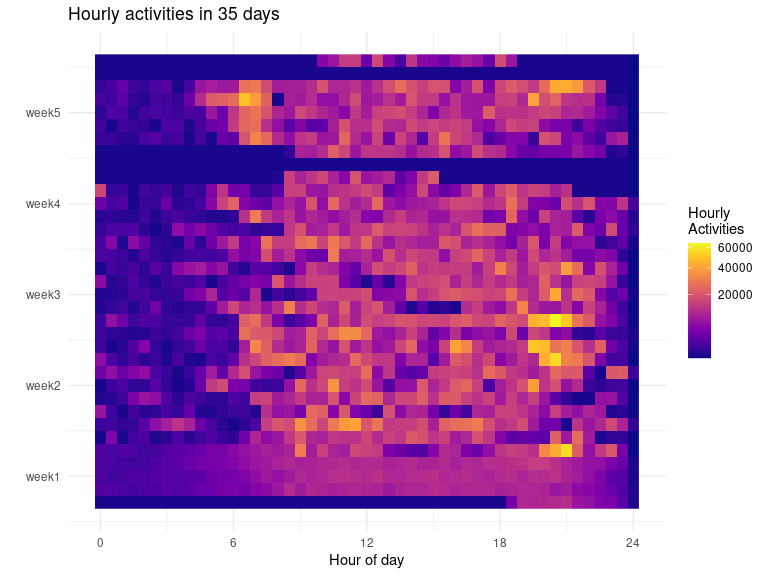
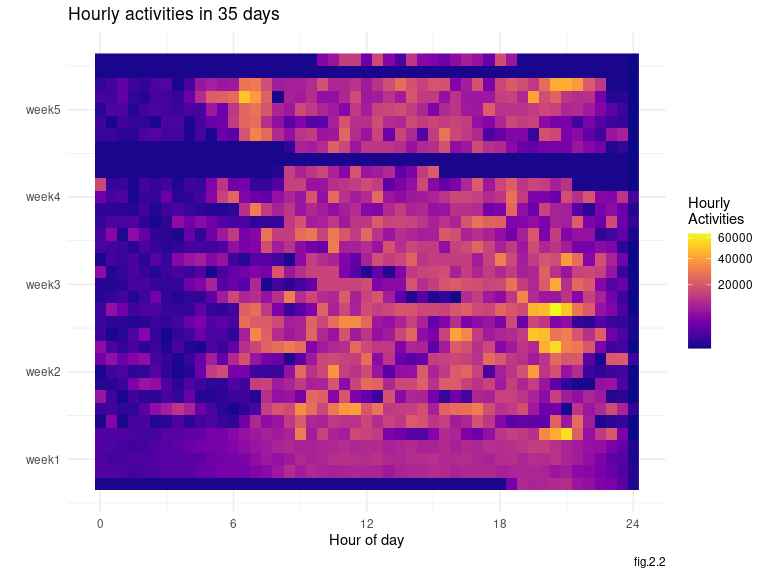
Finished description

diff --git a/P8105_hw3_zl2974.md b/P8105_hw3_zl2974.md
@@ -84,13 +84,13 @@ instacart %>%
 
     ##                              [,1]               [,2]              
     ## product_name                 "Coffee Ice Cream" "Pink Lady Apples"
-    ## avg_order_hour_of_day_week_0 "13.77419"         "13.44118"        
-    ## avg_order_hour_of_day_week_1 "14.31579"         "11.36000"        
-    ## avg_order_hour_of_day_week_2 "15.38095"         "11.70213"        
-    ## avg_order_hour_of_day_week_3 "15.31818"         "14.25000"        
-    ## avg_order_hour_of_day_week_4 "15.21739"         "11.55172"        
-    ## avg_order_hour_of_day_week_5 "12.26316"         "12.78431"        
-    ## avg_order_hour_of_day_week_6 "13.83333"         "11.93750"
+    ## avg_order_hour_of_day_week_0 "13.8"             "13.4"            
+    ## avg_order_hour_of_day_week_1 "14.3"             "11.4"            
+    ## avg_order_hour_of_day_week_2 "15.4"             "11.7"            
+    ## avg_order_hour_of_day_week_3 "15.3"             "14.2"            
+    ## avg_order_hour_of_day_week_4 "15.2"             "11.6"            
+    ## avg_order_hour_of_day_week_5 "12.3"             "12.8"            
+    ## avg_order_hour_of_day_week_6 "13.8"             "11.9"
 
 # Problem 2
 
@@ -112,24 +112,30 @@ accelerometer =
            case_when(weekday_vs_weekend ~"weekend",
                      !weekday_vs_weekend ~ "weekday") %>% 
            as.factor(),
-         week = as.character(week) %>% forcats::fct_relevel(as.character(1:5)),
-         day = forcats::fct_relevel(day,c("Monday","Tuesday","Wednesday","Thursday",
+         week = as.character(week) %>%
+           forcats::fct_relevel(as.character(1:5)),
+         day = forcats::fct_relevel(day,
+                                    c("Monday","Tuesday","Wednesday","Thursday",
                                      "Friday", "Saturday","Sunday"))
          ) %>% 
   group_by(week) %>% 
   arrange(day,.by_group=T) %>% 
   group_by(day_id) %>% 
   mutate(min_week = 1,
-         hour_day = cumsum(min_week)%/%30/2) %>% 
+         hour_day = 
+           cumsum(min_week)%/%30/2) %>% 
   ungroup(day_id) %>% 
-  mutate(min_week=cumsum(min_week),
-         hour_week = min_week%/%30/2) %>% 
+  mutate(min_week=
+           cumsum(min_week),
+         hour_week =
+           min_week%/%30/2) %>% 
   ungroup() %>% 
   select(-day_id) %>% 
   left_join(
     distinct(.,week,day,) %>% 
       ungroup() %>% 
-      mutate(day_id = 1,day_id = cumsum(day_id))
+      mutate(day_id = 1,
+             day_id = cumsum(day_id))
   )
 skimr::skim_without_charts(accelerometer)
 ```
@@ -158,20 +164,25 @@ Data summary
 
 **Variable type: numeric**
 
-| skim\_variable | n\_missing | complete\_rate |     mean |       sd | p0 |      p25 |     p50 |      p75 |  p100 |
-| :------------- | ---------: | -------------: | -------: | -------: | -: | -------: | ------: | -------: | ----: |
-| min            |          0 |              1 |   720.50 |   415.70 |  1 |   360.75 |   720.5 |  1080.25 |  1440 |
-| activity       |          0 |              1 |   267.04 |   443.16 |  1 |     1.00 |    74.0 |   364.00 |  8982 |
-| min\_week      |          0 |              1 | 25200.50 | 14549.37 |  1 | 12600.75 | 25200.5 | 37800.25 | 50400 |
-| hour\_day      |          0 |              1 |    11.77 |     6.93 |  0 |     6.00 |    12.0 |    18.00 |    24 |
-| hour\_week     |          0 |              1 |   419.77 |   242.49 |  0 |   210.00 |   420.0 |   630.00 |   840 |
-| day\_id        |          0 |              1 |    18.00 |    10.10 |  1 |     9.00 |    18.0 |    27.00 |    35 |
+| skim\_variable | n\_missing | complete\_rate |    mean |       sd | p0 |   p25 |   p50 |   p75 |  p100 |
+| :------------- | ---------: | -------------: | ------: | -------: | -: | ----: | ----: | ----: | ----: |
+| min            |          0 |              1 |   720.5 |   415.70 |  1 |   361 |   720 |  1080 |  1440 |
+| activity       |          0 |              1 |   267.0 |   443.16 |  1 |     1 |    74 |   364 |  8982 |
+| min\_week      |          0 |              1 | 25200.5 | 14549.37 |  1 | 12601 | 25200 | 37800 | 50400 |
+| hour\_day      |          0 |              1 |    11.8 |     6.93 |  0 |     6 |    12 |    18 |    24 |
+| hour\_week     |          0 |              1 |   419.8 |   242.49 |  0 |   210 |   420 |   630 |   840 |
+| day\_id        |          0 |              1 |    18.0 |    10.10 |  1 |     9 |    18 |    27 |    35 |
 
  The original data is a “wider” format data with 35 x 1443 dimension. In
 order to make the data compatible with machine, pivot\_long() is used to
 make the *activity*\*\_ of all subjects into columns of *min and
-activity*. Following instruction, weekend vs weekday’s variable is build
-on *day\_id* and result into a 50400 x 9 dataset.
+activity*. Following instruction, weekend vs weekday’s variable is built
+on *day* and producing factor columns with levels of weekday, weekend.
+With careful examine, the *day\_id*’s order is not correct, a new column
+of *day\_id* follow chronological order generated with *week* and
+reordered factors *day*. Also for convenient, *hour* of the day and
+*hour\_week* of the week were produced with cumsum() function. All
+changes resulted the data into a 50400 x 9 dataset.
 
   - Traditional analyses of accelerometer data focus on the total
     activity over the day. Using your tidied dataset, aggregate accross
@@ -190,19 +201,18 @@ accelerometer %>%
   knitr::kable()
 ```
 
-| day       |    week 1 | week 2 | week 3 | week 4 | week 5 |
-| :-------- | --------: | -----: | -----: | -----: | -----: |
-| Monday    |  78828.07 | 295431 | 685910 | 409450 | 389080 |
-| Tuesday   | 307094.24 | 423245 | 381507 | 319568 | 367824 |
-| Wednesday | 340115.01 | 440962 | 468869 | 434460 | 445366 |
-| Thursday  | 355923.64 | 474048 | 371230 | 340291 | 549658 |
-| Friday    | 480542.62 | 568839 | 467420 | 154049 | 620860 |
-| Saturday  | 376254.00 | 607175 | 382928 |   1440 |   1440 |
-| Sunday    | 631105.00 | 422018 | 467052 | 260617 | 138421 |
+| day       | week 1 | week 2 | week 3 | week 4 | week 5 |
+| :-------- | -----: | -----: | -----: | -----: | -----: |
+| Monday    |  78828 | 295431 | 685910 | 409450 | 389080 |
+| Tuesday   | 307094 | 423245 | 381507 | 319568 | 367824 |
+| Wednesday | 340115 | 440962 | 468869 | 434460 | 445366 |
+| Thursday  | 355924 | 474048 | 371230 | 340291 | 549658 |
+| Friday    | 480543 | 568839 | 467420 | 154049 | 620860 |
+| Saturday  | 376254 | 607175 | 382928 |   1440 |   1440 |
+| Sunday    | 631105 | 422018 | 467052 | 260617 | 138421 |
 
-``` r
-# TODO: hwo to make this table clean and nice? definatly not janitor, this is continuous
-```
+ A 7 by 5 table is produced. Noticing that the subject had 2 exceptional
+low activity on Saturday on week 4 and 5 inmediately.
 
   - Accelerometer data allows the inspection activity over the course of
     the day. Make a single-panel plot that shows the 24-hour activity
@@ -221,20 +231,33 @@ accelerometer %>%
              y= activity_hr,
              color = day,
              group = day_id))+
-  geom_smooth(se = F)+
+  stat_smooth(se = F,
+              geom="line",
+              alpha =0.5)+
   scale_y_continuous(trans = "sqrt",
-                     name = "Hourly Activities")+
-  scale_x_continuous(name = "Time")+
+                     name = "Hourly Activities",
+                     breaks = c(2000,10000,20000))+
+  scale_x_continuous(name = "Time",
+                     limits = c(0,24),
+                     breaks = seq(0,24,6))+
   viridis::scale_color_viridis(discrete = T,
                                name = "")+
   guides(color=guide_legend(nrow=1,
                             byrow=TRUE))+
   labs(
-    title = "Hourly activities in 35 days"
+    title = "Smooth Line for Hourly activities in 35 days",
+    caption = "fig.2.1"
   )
 ```
 
 ![](P8105_hw3_zl2974_files/figure-gfm/unnamed-chunk-3-1.png)<!-- -->
+
+ A smooth line plot of 24hr activities is made, most of the lines are
+overlapping indicate some general pattern of the subject’s daily
+routine: activities peak after 8 am and start decreasing after 6 pm. Few
+outliers were observed as well, some Saturday’s activities are
+unfluctuated, and some sunday’s activities and monday’s as well as
+Friday’s peak later than the most of other days’.
 
 ``` r
 accelerometer %>% 
@@ -256,11 +279,23 @@ accelerometer %>%
                               name = "Hourly\nActivities",
                               trans = "sqrt")+
   labs(
-    title = "Hourly activities in 35 days"
+    title = "Hourly activities in 35 days",
+    caption = "fig.2.2"
   )
 ```
 
 ![](P8105_hw3_zl2974_files/figure-gfm/activity_plot-1.png)<!-- -->
+
+ To display more information, a heatmap is made. In Week 1, the first
+few days show less changes in activities between hour compared to the
+following weeks, especially the first day of week 1, the researcher can
+look into if the subject have the equipment gear up properly. In the
+following weeks, subject has his/her first peek of activities around
+6-10, and following the second peek around 20. The activities on
+Saturday on week 4 and 5 show no changes in the heatmap, coherent with
+the finding in 7 by 5 table. The sunday in weeks 4 and 5 and the Firday
+in week 4 show less activities, accordinates with the outliers displayed
+in Fig.2.2.
 
 # Problem 3
 
@@ -323,8 +358,15 @@ Data summary
 | tmax           |    1134358 |           0.56 |   13.98 |  11.14 | \-38.9 |    5.0 |   15.0 |   23.3 |    60 |
 | tmin           |    1134420 |           0.56 |    3.03 |  10.40 | \-59.4 |  \-3.9 |    3.3 |   11.1 |    60 |
 
- Most common observation of *snow* is 0 omitting Na value, which
-representing no snow in that day.
+ The data of NYC’s noaa is a tidy 2595176x 10 data in term’s of
+structure, collecting data from 1981-01-01 to 2010-12-31 of 747
+stations. But missing value in *tmax* and *tmin* have exceed 40% and
+around 20% in *prcp* and *snow* columns, in other words, simplily
+omitting NA will drop at least 40% of the data. Impossible outlier is
+observed in *snow*, which most common observation is 0 after omitting Na
+value, which can be interpret as no snow in that day. Across 3 decades,
+the mean of highest temperature is 14.0 celcious and mean lowest of 3.03
+celcious.
 
   - Make a two-panel plot showing the average max temperature in January
     and in July in *each station* across years. Is there any observable
@@ -351,7 +393,7 @@ ny_noaa_tidy %>%
         axis.title.x = element_blank())+
   scale_x_discrete(labels = c())+
   labs(title = "Average Highest Temperature in January and July from 1981-2010",
-       y = "Average Highest Temperature in Janurary")
+       y = "Average Highest Temperature in January")
 
 plt_2 =
   ny_noaa_tidy %>% 
@@ -375,58 +417,13 @@ plt_1 / plt_2
 
 ![](P8105_hw3_zl2974_files/figure-gfm/plot_2_panel_max-1.png)<!-- -->
 
-``` r
-ny_noaa_tidy %>% 
-  filter(as.numeric(month) %in% c(1,7)) %>% 
-  mutate(day = as.factor(day),
-         month = month.name[month]) %>% 
-  ggplot(aes(x = day, y = tmax, color = month)) +
-  geom_boxplot(outlier.size = 0.5,
-               outlier.alpha = 0.5)+
-  scale_color_viridis_d(option = "E",name = "Month")+
-  facet_wrap(month~.,nrow = 1)+
-  scale_y_continuous(position = "right",
-                     name = "Highest Temperature of the Day")+
-  scale_x_discrete(breaks = seq(1,31,5),
-                   name = "Day of Month")
-
-plt_1=
-  ny_noaa_tidy %>%
-    mutate(date = lubridate::floor_date(date, unit = "month")) %>% 
-    filter(year < 1996) %>% 
-    group_by(year,month,date) %>% 
-    summarise(tmax = mean(tmax,na.rm = T),
-              tmin = mean(tmin,na.rm = T)) %>% 
-    ungroup() %>% 
-    ggplot(aes(x = date,
-               color = tmin - median(tmin)))+
-    geom_linerange(aes(ymax = tmax,
-                   ymin = tmin),
-               na.rm=T)+
-    theme(legend.position = 'none')+
-    scale_x_date(name = '')
-    #geom_point(aes(y = tmax),shape = 6)+
-    #geom_point(aes(y = tmin),shape = 2)
-
-plt_2=
-  ny_noaa_tidy %>%
-    mutate(date = lubridate::floor_date(date, unit = "month")) %>% 
-    filter(year >= 1996) %>% 
-    group_by(year,month,date) %>% 
-    summarise(tmax = mean(tmax,na.rm = T),
-              tmin = mean(tmin,na.rm = T)) %>% 
-    ungroup() %>% 
-    ggplot(aes(x = date,
-               color = tmin - median(tmin)))+
-    geom_linerange(aes(ymax = tmax,
-                   ymin = tmin),
-               na.rm=T)+
-    scale_x_date(name = '')
-    #geom_point(aes(y = tmax),shape = 6)+
-    #geom_point(aes(y = tmin),shape = 2)
-
-show(plt_1/plt_2)
-```
+ January’s average Highest temperatures observed in NYC across all
+stations differs around 10 degrees across the time. Two exceptional cold
+years in terms of highest temperature are observed in all station in
+1994 and 2004 .  Mean Highest temperatures in July flucturate arond 20
+to 30, the measure difference across stations is similar to January. 2
+lower and 3 upper outliers were observed in January in 3 decades, 8
+lower outliers were observed in July.
 
 ``` r
 plt_1 = 
@@ -444,7 +441,8 @@ ny_noaa_tidy %>%
     viridis::scale_color_viridis(discrete = T,
                                  option = "D",
                                  name = "Observation")+
-    labs(y = "Temperature(C)")
+    labs(y = "Temperature(C)",
+         caption = "Fig 3.2")
 
 plt_2 = 
 ny_noaa_tidy %>% 
@@ -457,7 +455,7 @@ ny_noaa_tidy %>%
                       rel_min_height = 0.15)+
   theme(axis.title.x = element_blank())+
   scale_x_continuous(trans = "log",
-                     breaks = seq(0,100,30),
+                     breaks = c(5, 15,40, 100),
                      position = "top")+
   coord_flip()+
   labs(title = "Density for snowfall and Boxplot for Temperature from 1908 to 2010",
@@ -466,3 +464,12 @@ ny_noaa_tidy %>%
 ```
 
 ![](P8105_hw3_zl2974_files/figure-gfm/t_n_snow-1.png)<!-- -->
+
+ Grouped Boxplot is used to show pattern and extreme tempertures in the
+whole dataset. Although mean and IQR of the lowest and highest
+temperatures haven’t showed any sign of global warming, extreme lowest
+temperature is occurring less often in 2000s compared to before 2000.
+Density ridges with flipped coordinate is use to show snowfall pattern.
+The kernel density becomes flatten in 2009 and 2010. Also, light
+snowfall(\<=10 mm) is taking higher proportion of total snowfall. So,
+some evidence might lying in this data.
